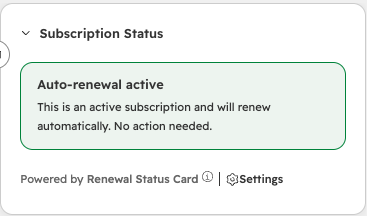
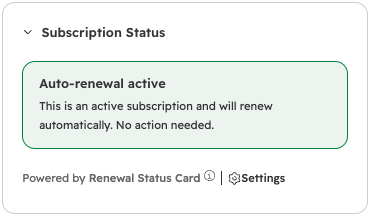
Replace renewal card screenshots with aligned transparent images

diff --git a/src/content/caseStudies.ts b/src/content/caseStudies.ts
@@ -251,19 +251,19 @@ export const caseStudies: CaseStudy[] = [
         {
           "src": "/case-studies/renewal-status-card/auto-renewal-active.png",
           "alt": "Subscription Status card: Auto-renewal active. The subscription will renew automatically; no action is needed.",
-          "width": 367,
+          "width": 370,
           "height": 216
         },
         {
           "src": "/case-studies/renewal-status-card/manual-renewal-required.png",
           "alt": "Subscription Status card: Manual renewal required. No active subscription was found; a Growth AE needs to handle the renewal manually.",
-          "width": 371,
+          "width": 370,
           "height": 216
         },
         {
           "src": "/case-studies/renewal-status-card/subscription-cancelled.png",
           "alt": "Subscription Status card: Subscription cancelled. The customer has cancelled; the renewal deal should be Closed Lost.",
-          "width": 368,
+          "width": 370,
           "height": 216
         }
       ]

diff --git a/docs/website-improvements/compact-vervolgplan-2026-10-21.md b/docs/website-improvements/compact-vervolgplan-2026-10-21.md
@@ -338,3 +338,5 @@ De lokale eindcontrole is hiermee afgerond. Productieaflevering van Formspree, d
 22 oktober 2026. Tom leverde drie uitsneden van de renewal-card aan: automatische verlenging, handmatige verlenging en opgezegd. De originele PNG’s staan ongewijzigd bij de website in `public/case-studies/renewal-status-card/`; er zijn geen zichtbare klantgegevens in deze uitsneden. De case toont ze na de intro, op brede schermen naast elkaar en op kleinere schermen onder elkaar, zonder vergroting boven de oorspronkelijke resolutie. Een kort onderschrift vervangt de eerdere statusopsomming; de technische keuzes en read-only-grens blijven staan. About blijft in afwachting van persoonlijke input ongewijzigd.
 
 Productiebuild, TypeScript, de verplichte validators en lint voor de gewijzigde bronbestanden slagen. De [browsercontrole](renewal-screenshots-preview-2026-10-22/check.json) bevestigt vijf breedtes (320, 390, 768, 1024 en 1440 px), geladen beelden met altteksten en correcte verhoudingen, geen overflow of page-errors. De overige vier cases geven 200 en tonen geen renewal-beelden. Mobiel en desktop zijn visueel beoordeeld. Alleen lokaal verwerkt; geen push of publicatie.
+
+Later op 22 oktober verving Tom de oorspronkelijke screenshots door drie zelf aangeleverde opgeschoonde PNG’s met transparante achtergrond. Deze bestanden zijn ongewijzigd overgenomen; alle drie meten 370 × 216 px en de ingestelde afbeeldingsbreedtes zijn daarop gelijkgetrokken. Productiebuild inclusief TypeScript en validators slaagt. Browsercontrole op 320, 390 en 1440 px bevestigt geladen afbeeldingen, gelijke weergaveafmetingen, gelijke bovenkanten op desktop en geen overflow of page-errors. Desktop en mobiel zijn ook visueel beoordeeld. Geen push of publicatie.
